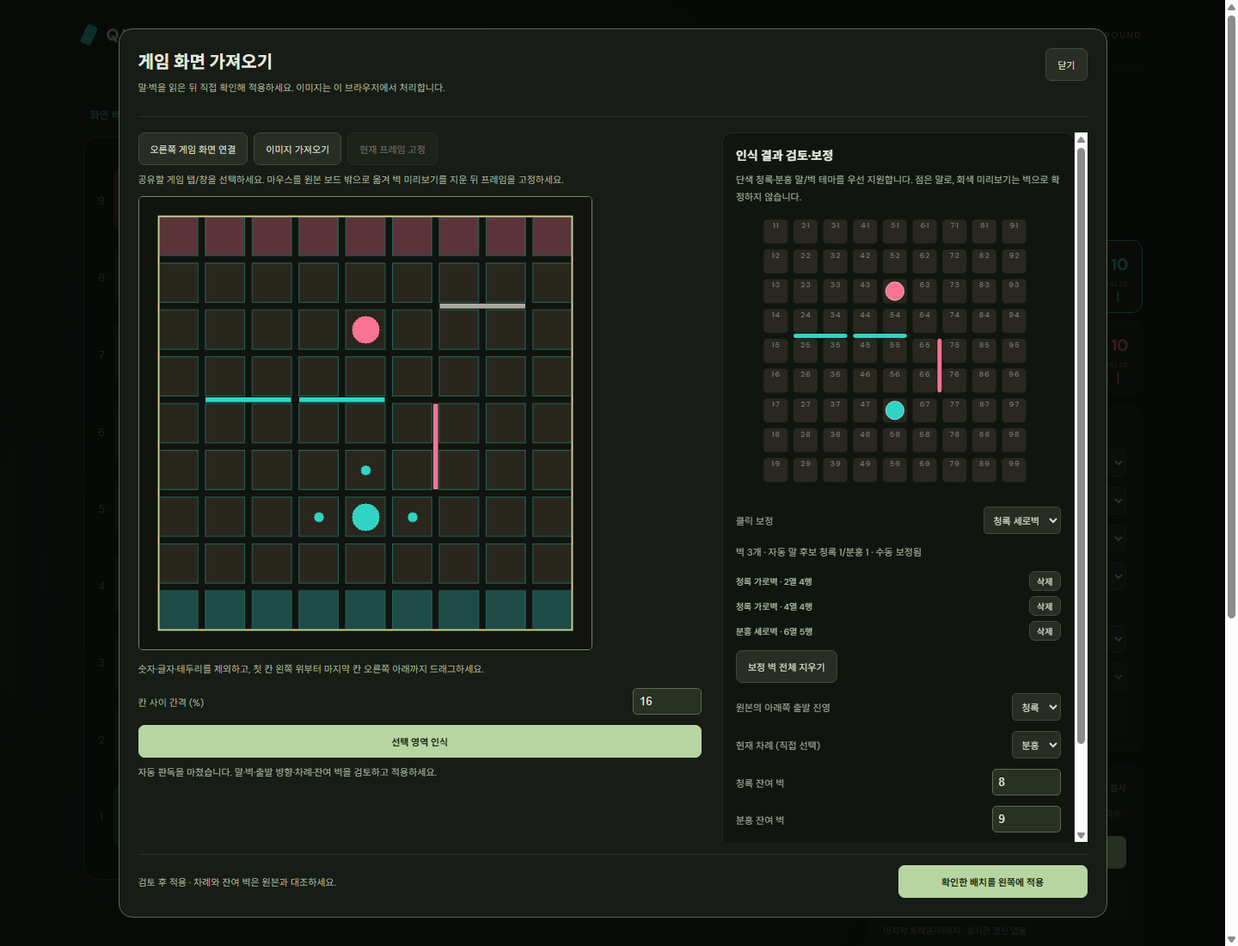
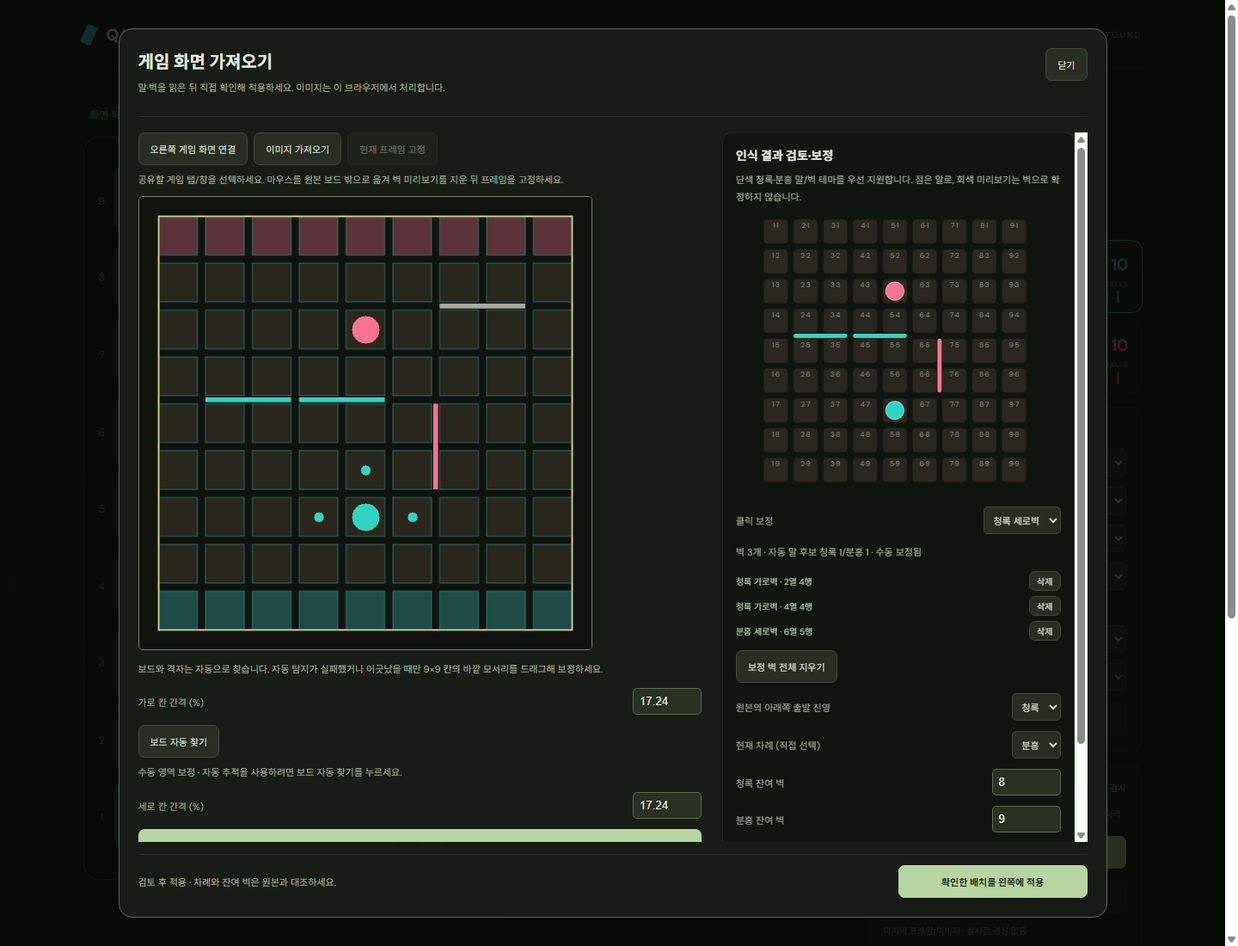
게임 보드와 격자 자동 인식 및 위치·크기 추적 추가
화면 연결과 이미지 가져오기에서 9×9 칸 배열을 찾아 보드 영역을 자동 지정한다.
가로·세로 칸 간격을 따로 계산하고 말과 벽을 즉시 판독한다.
보드 이동·확대·영상 해상도 변경 시 격자를 다시 찾고 합법 수를 동기화한다.
여러 보드는 후보 선택을 제공하고 자동 탐지 실패 시 수동 드래그를 유지한다.
가로·세로 벽 검사를 픽셀 줄 단위로 보강해 축소와 위치 오차에 대응한다.
보드 전체 이동을 말의 착수로 오인하지 않도록 반영 직전에 격자를 확인한다.

검증: 전체 Node 테스트 118개, 합성 영상 브라우저 시나리오 21개, 웹 빌드 통과.
실제 게임 화면 검증과 차례·잔여 벽 독립 판독은 다음 우선순위로 문서화했다.

Changed region(s): [[0.0938, 0.7418, 0.5938, 0.8964], [0.125, 0.68, 0.4688, 0.7109]]

diff --git a/src/screen-capture.js b/src/screen-capture.js
@@ -1,6 +1,7 @@
 import {recognizeBoard,gridGeometry} from './screen-recognition.js';
 import {snapshotFromDraft,snapshotIssues,checkedSnapshot} from './observed-state.js';
 import {inferScreenMoves,StableScreenBoard,boardKey} from './screen-sync.js';
+import {detectBoards,trackedBoard} from './board-detection.js';
 const colors=['#31d4c2','#fa7393'];
 export function mountScreenCapture({onApply,onDirty,getState,onSync,onWatchChange,onUncertain,onRecovered}){
  const panel=document.createElement('section');panel.className='panel';panel.id='screen-panel';panel.hidden=true;
@@ -12,44 +13,80 @@ export function mountScreenCapture({onApply,onDirty,getState,onSync,onWatchChang
  <div class="screen-workspace"><section class="screen-source"><div class="screen-actions"><button id="screen-connect">오른쪽 게임 화면 연결</button><button id="screen-image">이미지 가져오기</button><button id="screen-freeze" disabled>현재 프레임 고정</button><input id="screen-image-file" type="file" accept="image/png,image/jpeg,image/webp" hidden></div><p class="screen-help">공유할 게임 탭/창을 선택하세요. 마우스를 원본 보드 밖으로 옮겨 벽 미리보기를 지운 뒤 프레임을 고정하세요.</p><video id="screen-video" muted autoplay playsinline hidden></video><div id="screen-empty" class="screen-empty">화면을 연결하거나 PNG·JPG·WebP를 가져오세요.</div><canvas id="screen-source-canvas" hidden aria-label="원본 이미지: 9×9 칸의 바깥 모서리를 드래그해 보드 영역 선택"></canvas><p class="screen-help">숫자·글자·테두리를 제외하고, 첫 칸 왼쪽 위부터 마지막 칸 오른쪽 아래까지 드래그하세요.</p><label>칸 사이 간격 (%)<input id="screen-gap" type="number" min="6" max="30" step="1" value="16"></label><button id="screen-recognize" class="primary" disabled>선택 영역 인식</button><p id="screen-message" role="status" aria-live="polite" class="screen-help">먼저 화면이나 이미지를 준비하세요.</p></section>
  <section class="screen-review"><h3>인식 결과 검토·보정</h3><p class="screen-help">단색 청록·분홍 말/벽 테마를 우선 지원합니다. 점은 말로, 회색 미리보기는 벽으로 확정하지 않습니다.</p><div id="screen-review-board" aria-label="인식 배치 보정 보드"></div><label>클릭 보정<select id="screen-brush"><option value="p0">청록 말</option><option value="p1">분홍 말</option><option value="h0">청록 가로벽</option><option value="v0">청록 세로벽</option><option value="h1">분홍 가로벽</option><option value="v1">분홍 세로벽</option><option value="erase">벽 지우기</option></select></label><p id="screen-detected" class="screen-help"></p><div id="screen-wall-list"></div><button id="screen-clear-walls">보정 벽 전체 지우기</button><label>원본의 아래쪽 출발 진영<select id="screen-bottom"><option value="0">청록</option><option value="1">분홍</option></select></label><label>현재 차례 (직접 선택)<select id="screen-turn"><option value="0">청록</option><option value="1">분홍</option></select></label><label>청록 잔여 벽<input id="screen-left-0" type="number" min="0" max="10" value="10"></label><label>분홍 잔여 벽<input id="screen-left-1" type="number" min="0" max="10" value="10"></label><p class="screen-help">차례는 자동으로 읽지 않습니다. 잔여 벽은 설치된 벽 색으로 추정하므로 원본 숫자와 직접 대조하세요.</p><button id="screen-stock-reset">설치 벽으로 잔여 수 재계산</button><ul id="screen-issues" class="screen-issues"></ul><button id="screen-apply" class="primary" disabled>확인한 배치를 왼쪽에 적용</button></section></div>`;
  document.body.append(dialog);
+ const detectionControls=document.createElement('div');detectionControls.innerHTML='<button id="screen-find-board">보드 자동 찾기</button><p id="screen-grid-status" class="screen-help" role="status">화면을 연결하면 보드와 칸 간격을 자동으로 찾습니다.</p><div id="screen-board-candidates"></div><label>세로 칸 간격 (%)<input id="screen-gap-y" type="number" min="6" max="30" step="0.01" value="16"></label>';
+ document.getElementById('screen-recognize').before(detectionControls);document.getElementById('screen-gap').step='0.01';
  const $=id=>document.getElementById(id),canvas=$('screen-source-canvas'),ctx=canvas.getContext('2d'),frame=document.createElement('canvas'),video=$('screen-video');
+ canvas.nextElementSibling.textContent='보드와 격자는 자동으로 찾습니다. 자동 탐지가 실패했거나 어긋났을 때만 9×9 칸의 바깥 모서리를 드래그해 보정하세요.';
+ $('screen-gap').parentElement.firstChild.textContent='가로 칸 간격 (%)';
  const footer=document.createElement('div');footer.className='screen-dialog-foot';const footerNote=document.createElement('span');footerNote.textContent='검토 후 적용 · 차례와 잔여 벽은 원본과 대조하세요.';footer.append(footerNote,$('screen-apply'));dialog.append(footer);
  let stream=null,hasFrame=false,rect=null,drag=null,draft=null,manualStock=[false,false],visible=false,token=0,disposed=false,edited=false;
  let timer=null,calibration=null,uncertain=false,lastVideoTime=-1,lastFrameAt=0;const stable=new StableScreenBoard(3),live=document.createElement('canvas');
+ let automaticGrid=false,lastGridCheck=0;
+ const gaps=()=>({x:Number($('screen-gap').value)/100,y:Number($('screen-gap-y').value)/100});
+ function boardCandidates(pixels){return detectBoards(pixels).filter(candidate=>{const d=recognizeBoard(pixels,candidate.rect,{gap:candidate.gap});return d.p.every(Boolean)&&[0,1].some(bottom=>!snapshotIssues(snapshotFromDraft(d,{bottom,turn:0})).length);});}
+ function selectBoard(candidate,pixels){
+  dirty();rect={...candidate.rect};automaticGrid=true;$('screen-gap').value=(candidate.gap.x*100).toFixed(2);$('screen-gap-y').value=(candidate.gap.y*100).toFixed(2);
+  draft=recognizeBoard(pixels,rect,{gap:gaps()});manualStock=[false,false];edited=false;stock();review();redraw();controls();$('screen-grid-status').textContent=`격자 자동 정렬 완료 · ${candidate.cells}/81칸 확인`;
+  message('보드와 가로·세로 간격을 자동으로 찾았습니다. 말·벽·진영·차례를 확인하고 적용하세요.');
+ }
+ function findBoard(){
+  if(!hasFrame)return;dirty();rect=null;automaticGrid=false;$('screen-board-candidates').replaceChildren();
+  try{const pixels=frame.getContext('2d').getImageData(0,0,frame.width,frame.height),candidates=boardCandidates(pixels);
+   if(candidates.length===1)selectBoard(candidates[0],pixels);
+   else{redraw();controls();const text=candidates.length?'여러 보드를 찾았습니다. 사용할 보드를 선택하세요.':'보드를 확정하지 못했습니다. 전체 9×9 보드가 보이게 하거나 직접 영역을 드래그하세요.';$('screen-grid-status').textContent=text;message(text,true);
+    candidates.forEach((candidate,i)=>{const button=document.createElement('button');button.textContent=`보드 ${i+1} · 위치 ${Math.round(candidate.rect.x)}, ${Math.round(candidate.rect.y)}`;button.onclick=()=>{selectBoard(candidate,pixels);$('screen-board-candidates').replaceChildren();};$('screen-board-candidates').append(button);});}
+  }catch(error){message(error.message,true);}
+ }
  const autoStatus=text=>{$('screen-auto-status').textContent=text;};
  function pause(reason='자동 감시 일시정지'){clearInterval(timer);timer=null;stable.reset();lastVideoTime=-1;onWatchChange?.(false);autoStatus(reason);controls();}
  function invalidate(){calibration=null;if(timer)pause('영역·배치를 변경했습니다. 검토 후 다시 적용하세요.');}
  function reject(text){stable.reset();autoStatus(`갱신 보류 · ${text}`);if(!uncertain){uncertain=true;onUncertain?.();}}
+ function refreshGrid(pixels,w,h){
+  lastGridCheck=Date.now();const found=trackedBoard(boardCandidates(pixels),calibration,w,h);
+  if(!found)throw Error('보드 재탐지 중 · 전체 9×9 칸과 선택 대상을 확인하세요.');
+  const moved=Math.abs(found.rect.x-calibration.rect.x)>2||Math.abs(found.rect.y-calibration.rect.y)>2||Math.abs(found.rect.width-calibration.rect.width)>2||Math.abs(found.rect.height-calibration.rect.height)>2||w!==calibration.width||h!==calibration.height;
+  if(moved){stable.reset();if(!uncertain){uncertain=true;onUncertain?.();}}
+  calibration={...calibration,rect:found.rect,gap:found.gap,width:w,height:h};return moved;
+ }
  function tick(){
   if(!timer||!stream||!calibration||disposed)return;
   try{
    if(video.readyState<2||video.paused||video.currentTime===lastVideoTime){if(Date.now()-lastFrameAt>3000)reject('새 영상 프레임을 받지 못했습니다. 공유 상태를 확인하세요.');return;}
    lastVideoTime=video.currentTime;lastFrameAt=Date.now();
    const scale=Math.min(1,2048/Math.max(video.videoWidth,video.videoHeight)),w=Math.round(video.videoWidth*scale),h=Math.round(video.videoHeight*scale);
-   if(w!==calibration.width||h!==calibration.height){invalidate();autoStatus('공유 화면 크기가 바뀌었습니다. 프레임을 고정하고 영역을 다시 지정하세요.');onUncertain?.();return;}
+   if(!calibration.auto&&(w!==calibration.width||h!==calibration.height)){invalidate();autoStatus('공유 화면 크기가 바뀌었습니다. 프레임을 고정하고 영역을 다시 지정하세요.');onUncertain?.();return;}
    live.width=w;live.height=h;live.getContext('2d').drawImage(video,0,0,w,h);
-   const detected=recognizeBoard(live.getContext('2d').getImageData(0,0,w,h),calibration.rect,{gap:calibration.gap});
+   const pixels=live.getContext('2d').getImageData(0,0,w,h);
+   let gridChecked=false;
+   if(calibration.auto&&(Date.now()-lastGridCheck>=1000||w!==calibration.width||h!==calibration.height)){refreshGrid(pixels,w,h);gridChecked=true;}
+   const detected=recognizeBoard(pixels,calibration.rect,{gap:calibration.gap});
    const before=getState?.();if(!before){pause('배치를 다시 적용하세요.');return;}
    const target=checkedSnapshot(snapshotFromDraft(detected,{bottom:calibration.bottom,turn:before.turn}));
    if(!stable.observe(target)){if(boardKey(before)!==boardKey(target)&&!uncertain){uncertain=true;onUncertain?.();}autoStatus('배치 변화 확인 중 · 동일한 화면 3회 대기');return;}
+   // A whole-board translation by one cell can look like two legal pawn moves.
+   // Confirm geometry on this very frame before committing any changed board.
+   if(calibration.auto&&!gridChecked&&boardKey(before)!==boardKey(target)){
+    const moved=refreshGrid(pixels,w,h),verified=checkedSnapshot(snapshotFromDraft(recognizeBoard(pixels,calibration.rect,{gap:calibration.gap}),{bottom:calibration.bottom,turn:before.turn}));
+    if(moved||boardKey(verified)!==boardKey(target)){stable.reset();autoStatus('격자 재정렬 · 배치 안정화 확인 중');return;}
+   }
    const actions=inferScreenMoves(before,target);
    if(actions.length){if(onSync?.(actions,before)===false)throw Error('왼쪽 배치가 변경됐습니다. 다시 확인하세요.');uncertain=false;autoStatus(`${actions.length}수 자동 반영 · ${new Date().toLocaleTimeString()}`);}
    else {if(uncertain){uncertain=false;onRecovered?.();}autoStatus('자동 감시 중 · 원본과 일치');}
   }catch(error){reject(error.message);}
  }
- function start(){if(!stream||!calibration)return;stable.reset();uncertain=true;lastVideoTime=-1;lastFrameAt=Date.now();timer=setInterval(tick,250);onWatchChange?.(true);autoStatus('자동 감시 시작 · 동일한 배치 3회 확인 후 반영');controls();}
+ function start(){if(!stream||!calibration)return;stable.reset();uncertain=true;lastVideoTime=-1;lastGridCheck=0;lastFrameAt=Date.now();timer=setInterval(tick,250);onWatchChange?.(true);autoStatus('자동 감시 시작 · 동일한 배치 3회 확인 후 반영');controls();}
  const message=(text,error=false)=>{$('screen-message').textContent=text;$('screen-message').classList.toggle('screen-error',error);};
  const dirty=()=>{invalidate();draft=null;$('screen-apply').disabled=true;$('screen-review-board').innerHTML='';$('screen-wall-list').replaceChildren();$('screen-detected').textContent='';$('screen-issues').replaceChildren();onDirty();};
  function controls(){const active=!!stream;$('screen-auto-start').disabled=!active||!calibration||!!timer;$('screen-auto-pause').disabled=!timer;$('screen-disconnect').disabled=!active;$('screen-freeze').disabled=!active;$('screen-connect').disabled=!navigator.mediaDevices?.getDisplayMedia;$('screen-recognize').disabled=!hasFrame||!rect;$('screen-connection').textContent=active?timer?'공유 중 · 자동 감시 활성':'공유 중 · 자동 감시는 일시정지':hasFrame?'마지막 프레임/이미지 · 실시간 갱신 없음':'연결된 화면 없음';}
  function disconnect(notify=true){pause('화면 공유 중지 · 자동 감시 종료');calibration=null;token++;const old=stream;stream=null;video.srcObject=null;video.hidden=true;old?.getTracks().forEach(t=>t.stop());controls();if(notify)onDirty();}
  function redraw(){
   if(!hasFrame)return;ctx.clearRect(0,0,canvas.width,canvas.height);ctx.drawImage(frame,0,0);
-  if(rect){ctx.save();ctx.strokeStyle='#f4d18a';ctx.lineWidth=Math.max(2,canvas.width/600);ctx.strokeRect(rect.x,rect.y,rect.width,rect.height);try{const g=gridGeometry(rect,Number($('screen-gap').value)/100);ctx.strokeStyle='#31d4c277';ctx.lineWidth=1;for(let y=0;y<9;y++)for(let x=0;x<9;x++){const c=g.cell(x,y);ctx.strokeRect(c.x,c.y,c.width,c.height);}}catch{}ctx.restore();}
+  if(rect){ctx.save();ctx.strokeStyle='#f4d18a';ctx.lineWidth=Math.max(2,canvas.width/600);ctx.strokeRect(rect.x,rect.y,rect.width,rect.height);try{const g=gridGeometry(rect,gaps());ctx.strokeStyle='#31d4c277';ctx.lineWidth=1;for(let y=0;y<9;y++)for(let x=0;x<9;x++){const c=g.cell(x,y);ctx.strokeRect(c.x,c.y,c.width,c.height);}}catch{}ctx.restore();}
  }
  function setFrame(source,width,height,keepRect=false){
   if(width<1||height<1)throw Error('화면 크기를 읽지 못했습니다.');const scale=Math.min(1,2048/Math.max(width,height)),w=Math.round(width*scale),h=Math.round(height*scale);
   if(!keepRect||frame.width!==w||frame.height!==h)rect=null;
-  frame.width=w;frame.height=h;frame.getContext('2d').drawImage(source,0,0,w,h);canvas.width=w;canvas.height=h;hasFrame=true;canvas.hidden=false;$('screen-empty').hidden=true;dirty();redraw();controls();message('프레임을 고정했습니다. 보드 영역을 지정하고 격자가 칸과 맞는지 확인하세요.');
+  frame.width=w;frame.height=h;frame.getContext('2d').drawImage(source,0,0,w,h);canvas.width=w;canvas.height=h;hasFrame=true;canvas.hidden=false;$('screen-empty').hidden=true;dirty();redraw();controls();findBoard();
  }
  function freeze(){if(!stream||video.readyState<2)throw Error('연결된 화면을 아직 읽을 수 없습니다.');setFrame(video,video.videoWidth,video.videoHeight,true);}
  async function connect(){
@@ -65,11 +102,11 @@ export function mountScreenCapture({onApply,onDirty,getState,onSync,onWatchChang
  }
  async function imageFile(file){
   if(!file)return;if(!['image/png','image/jpeg','image/webp'].includes(file.type)||file.size>32*1024*1024){message('32MB 이하 PNG·JPG·WebP 파일을 선택하세요.',true);return;}
-  disconnect(false);const mine=token;dirty();message('이미지를 읽고 있습니다…');let bitmap;
+  disconnect(false);const mine=token;dirty();hasFrame=false;rect=null;canvas.hidden=true;$('screen-empty').hidden=false;$('screen-board-candidates').replaceChildren();controls();message('이미지를 읽고 있습니다…');let bitmap;
   try{bitmap=await createImageBitmap(file);if(!disposed&&token===mine)setFrame(bitmap,bitmap.width,bitmap.height);}catch(error){if(token===mine)message(`이미지를 읽지 못했습니다: ${error.message}`,true);}finally{bitmap?.close();}
  }
  const point=e=>{const box=canvas.getBoundingClientRect();return {x:Math.max(0,Math.min(canvas.width,(e.clientX-box.left)*canvas.width/box.width)),y:Math.max(0,Math.min(canvas.height,(e.clientY-box.top)*canvas.height/box.height))};};
- canvas.onpointerdown=e=>{if(!hasFrame)return;canvas.setPointerCapture(e.pointerId);drag=point(e);rect=null;dirty();};
+ canvas.onpointerdown=e=>{if(!hasFrame)return;automaticGrid=false;$('screen-board-candidates').replaceChildren();$('screen-grid-status').textContent='수동 영역 보정 · 자동 추적을 사용하려면 보드 자동 찾기를 누르세요.';canvas.setPointerCapture(e.pointerId);drag=point(e);rect=null;dirty();};
  canvas.onpointermove=e=>{if(!drag)return;const p=point(e);rect={x:Math.min(drag.x,p.x),y:Math.min(drag.y,p.y),width:Math.abs(p.x-drag.x),height:Math.abs(p.y-drag.y)};redraw();};
  canvas.onpointerup=e=>{if(!drag)return;const p=point(e);rect={x:Math.min(drag.x,p.x),y:Math.min(drag.y,p.y),width:Math.abs(p.x-drag.x),height:Math.abs(p.y-drag.y)};drag=null;redraw();controls();message('격자가 칸과 맞는지 확인한 뒤 영역을 인식하세요.');};
  canvas.onpointercancel=()=>{drag=null;rect=null;redraw();controls();};
@@ -92,13 +129,14 @@ export function mountScreenCapture({onApply,onDirty,getState,onSync,onWatchChang
   }else{const w={type:'wall',o:brush[0],owner:Number(brush[1]),x:Math.max(0,Math.min(7,Math.round((x-48)/42))),y:Math.max(0,Math.min(7,Math.round((y-48)/42)))},old=draft.walls.findIndex(a=>a.x===w.x&&a.y===w.y&&a.o===w.o);if(old>=0)draft.walls[old]=w;else draft.walls.push(w);}
   edited=true;stock();onDirty();review();
  };
- $('screen-recognize').onclick=()=>{try{if(!rect||rect.width<180||rect.height<180)throw Error('보드 영역을 180×180 픽셀 이상으로 선택하세요.');draft=recognizeBoard(frame.getContext('2d').getImageData(0,0,frame.width,frame.height),rect,{gap:Number($('screen-gap').value)/100});manualStock=[false,false];edited=false;stock();review();onDirty();message('자동 판독을 마쳤습니다. 말·벽·출발 방향·차례·잔여 벽을 검토하고 적용하세요.');}catch(error){dirty();message(error.message,true);}};
- $('screen-gap').oninput=()=>{dirty();redraw();controls();};
+ $('screen-recognize').onclick=()=>{try{if(!rect||rect.width<180||rect.height<180)throw Error('보드 영역을 180×180 픽셀 이상으로 선택하세요.');draft=recognizeBoard(frame.getContext('2d').getImageData(0,0,frame.width,frame.height),rect,{gap:gaps()});manualStock=[false,false];edited=false;stock();review();onDirty();message('자동 판독을 마쳤습니다. 말·벽·출발 방향·차례·잔여 벽을 검토하고 적용하세요.');}catch(error){dirty();message(error.message,true);}};
+ $('screen-find-board').onclick=findBoard;
+ for(const id of ['screen-gap','screen-gap-y'])$(id).oninput=()=>{automaticGrid=false;dirty();redraw();controls();};
  for(const id of ['screen-bottom','screen-turn'])$(id).onchange=()=>{onDirty();review();};
  for(const t of [0,1])$(`screen-left-${t}`).oninput=()=>{manualStock[t]=true;onDirty();review();};
  $('screen-stock-reset').onclick=()=>{manualStock=[false,false];stock();onDirty();review();};
  $('screen-clear-walls').onclick=()=>{if(draft){draft.walls=[];edited=true;stock();onDirty();review();}};
- $('screen-apply').onclick=()=>{try{const snapshot=checkedSnapshot(readSnapshot());pause();onApply(snapshot,Number($('screen-bottom').value));calibration={rect:{...rect},gap:Number($('screen-gap').value)/100,bottom:Number($('screen-bottom').value),width:frame.width,height:frame.height};controls();dialog.close();message('확인한 배치를 적용했습니다. 공유 중이면 자동 감시 시작을 눌러 연동하세요.');}catch(error){message(error.message,true);review();}};
+ $('screen-apply').onclick=()=>{try{const snapshot=checkedSnapshot(readSnapshot());pause();onApply(snapshot,Number($('screen-bottom').value));calibration={rect:{...rect},gap:gaps(),auto:automaticGrid,bottom:Number($('screen-bottom').value),width:frame.width,height:frame.height};controls();dialog.close();message('확인한 배치를 적용했습니다. 공유 중이면 자동 감시 시작을 눌러 연동하세요.');}catch(error){message(error.message,true);review();}};
  $('screen-auto-start').onclick=()=>{if(!timer)start();};$('screen-auto-pause').onclick=()=>pause();$('screen-auto-hint').onchange=()=>{stable.reset();uncertain=true;onWatchChange?.(!!timer);};
  // Editing an approved draft invalidates its calibration before it can be reused.
  dialog.addEventListener('input',e=>{if(e.target.id!=='screen-image-file'){invalidate();controls();}});

diff --git a/src/board-detection.js b/src/board-detection.js
@@ -1,0 +1,49 @@
+// Flat-color tile components vote for a repeated 9 x 9 lattice. No screen
+// coordinates, page selectors or initial pawn positions are assumed.
+export function detectBoards(image){
+ const {width:w,height:h,data}=image,seen=new Uint8Array(w*h),queue=new Int32Array(w*h),tiles=[];
+ const key=i=>{const p=i*4,r=data[p],g=data[p+1],b=data[p+2];return data[p+3]<128||Math.max(r,g,b)<28||Math.max(r,g,b)>145?-1:((r/12|0)*256+(g/12|0)*16+(b/12|0));};
+ for(let i=0;i<w*h;i++){
+  if(seen[i])continue;seen[i]=1;const color=key(i);if(color<0)continue;
+  let head=0,tail=1,minX=i%w,maxX=minX,minY=i/w|0,maxY=minY;queue[0]=i;
+  while(head<tail){const n=queue[head++],x=n%w,y=n/w|0;minX=Math.min(minX,x);maxX=Math.max(maxX,x);minY=Math.min(minY,y);maxY=Math.max(maxY,y);
+   for(const j of [x? n-1:-1,x+1<w?n+1:-1,y?n-w:-1,y+1<h?n+w:-1])if(j>=0&&!seen[j]&&key(j)===color){seen[j]=1;queue[tail++]=j;}
+  }
+  const tw=maxX-minX+1,th=maxY-minY+1;
+  if(tw>=12&&th>=12&&tw<Math.min(w,h)/7&&th<Math.min(w,h)/7&&tw/th>.65&&tw/th<1.5&&tail/(tw*th)>.52)tiles.push({x:(minX+maxX+1)/2,y:(minY+maxY+1)/2,w:tw,h:th});
+ }
+ const groups=[];
+ for(const tile of tiles){let group=groups.find(g=>Math.abs(g[0].w-tile.w)<Math.max(3,tile.w*.1)&&Math.abs(g[0].h-tile.h)<Math.max(3,tile.h*.1));if(!group)groups.push(group=[]);group.push(tile);}
+ const results=[];
+ for(const group of groups){
+  if(group.length<60)continue;
+  const median=values=>values.sort((a,b)=>a-b)[values.length>>1],cw=median(group.map(t=>t.w)),ch=median(group.map(t=>t.h));
+  function fits(axis,size){
+   const clusters=[];for(const n of group.map(t=>t[axis]).sort((a,b)=>a-b)){const last=clusters.at(-1);if(last&&Math.abs(last.mean-n)<size*.07){last.sum+=n;last.count++;last.mean=last.sum/last.count;}else clusters.push({mean:n,sum:n,count:1});}
+   const coords=clusters.filter(c=>c.count>=4).map(c=>c.mean),out=[];
+   for(let a=0;a<coords.length;a++)for(let b=a+1;b<coords.length;b++)for(let span=1;span<=8;span++){
+    const step=(coords[b]-coords[a])/span,gap=1-size/step;if(gap<.06||gap>.3)continue;
+    const hits=Array.from({length:9},(_,i)=>coords.some(v=>Math.abs(v-coords[a]-i*step)<Math.max(2,step*.055))).filter(Boolean).length;
+    if(hits===9&&!out.some(f=>Math.abs(f.start-coords[a])<2&&Math.abs(f.step-step)<1))out.push({start:coords[a],step,gap});
+   }return out;
+  }
+  for(const x of fits('x',cw))for(const y of fits('y',ch)){
+   const cells=new Set();let error=0;
+   for(const t of group){const col=Math.round((t.x-x.start)/x.step),row=Math.round((t.y-y.start)/y.step),dx=Math.abs(t.x-x.start-col*x.step),dy=Math.abs(t.y-y.start-row*y.step);if(col>=0&&col<9&&row>=0&&row<9&&dx<x.step*.06&&dy<y.step*.06){cells.add(row*9+col);error+=dx/x.step+dy/y.step;}}
+   if(cells.size<65)continue;
+   const rect={x:x.start-cw/2,y:y.start-ch/2,width:8*x.step+cw,height:8*y.step+ch};
+   if(rect.x<0||rect.y<0||rect.x+rect.width>w||rect.y+rect.height>h||Math.min(rect.width,rect.height)<180)continue;
+   const score=cells.size-error;
+   const old=results.find(r=>Math.abs(r.rect.x-rect.x)<cw&&Math.abs(r.rect.y-rect.y)<ch&&Math.abs(r.rect.width-rect.width)<cw);
+   const candidate={rect,gap:{x:x.gap,y:y.gap},cells:cells.size,score};
+   if(old){if(score>old.score)Object.assign(old,candidate);}else results.push(candidate);
+  }
+ }
+ return results.sort((a,b)=>b.score-a.score);
+}
+export function trackedBoard(candidates,previous,width,height){
+ if(candidates.length===1)return candidates[0];
+ const sx=width/previous.width,sy=height/previous.height,p=previous.rect;
+ const ranked=candidates.map(c=>({candidate:c,distance:Math.abs(c.rect.x-p.x*sx)/(p.width*sx)+Math.abs(c.rect.y-p.y*sy)/(p.height*sy)+Math.abs(Math.log(c.rect.width/(p.width*sx)))+Math.abs(Math.log(c.rect.height/(p.height*sy)))})).sort((a,b)=>a.distance-b.distance);
+ return ranked[0]?.distance<.5&&ranked[1]?.distance-ranked[0].distance>.25?ranked[0].candidate:null;
+}

diff --git a/src/board-detection.test.js b/src/board-detection.test.js
@@ -1,0 +1,39 @@
+import test from 'node:test';
+import assert from 'node:assert/strict';
+import {detectBoards,trackedBoard} from './board-detection.js';
+import {recognizeBoard} from './screen-recognition.js';
+import {screenFixture} from '../scripts/test-fixtures/screen-board.mjs';
+const keys=walls=>walls.map(w=>`${w.o}:${w.x}:${w.y}:${w.owner}`).sort();
+// Nearest-neighbor placement into a larger desktop, with independent axes.
+function desktop(f,{x=137,y=83,sx=.65,sy=.72,second=false}={}){
+ const width=1200,height=950,data=new Uint8ClampedArray(width*height*4);for(let i=0;i<data.length;i+=4)data.set([16,18,14,255],i);
+ function paste(dx,dy){for(let yy=0;yy<Math.round(f.height*sy);yy++)for(let xx=0;xx<Math.round(f.width*sx);xx++){const from=(Math.min(f.height-1,Math.floor(yy/sy))*f.width+Math.min(f.width-1,Math.floor(xx/sx)))*4;data.set(f.data.subarray(from,from+4),((dy+yy)*width+dx+xx)*4);}}paste(x,y);if(second)paste(700,120);
+ return {width,height,data};
+}
+test('automatic lattice finds board in full desktop at different offsets, scales and independent axis gaps',()=>{
+ for(const opts of [{},{x:60,y:200,sx:1,sy:.85},{x:300,y:100,sx:.45,sy:.55}]){
+  const f=screenFixture(),image=desktop(f,opts),found=detectBoards(image);assert.equal(found.length,1);
+  const r=recognizeBoard(image,found[0].rect,{gap:found[0].gap});assert.deepEqual(r.p,f.expected.p);assert.deepEqual(keys(r.walls),keys(f.expected.walls));
+ }
+});
+test('five-wall regression reads both horizontal colors and all verticals with automatic geometry',()=>{
+ const installed=[{x:1,y:1,o:'v',owner:1},{x:3,y:1,o:'h',owner:1},{x:6,y:3,o:'v',owner:0},{x:5,y:5,o:'v',owner:1},{x:2,y:5,o:'h',owner:0}].map(w=>({type:'wall',...w}));
+ const f=screenFixture({installed,positions:[{x:4,y:4},{x:4,y:3}]}),image=desktop(f),[found]=detectBoards(image),r=recognizeBoard(image,found.rect,{gap:found.gap});assert.deepEqual(keys(r.walls),keys(installed));assert.deepEqual([0,1].map(t=>10-r.walls.filter(w=>w.owner===t).length),[8,7]);
+});
+test('horizontal and vertical wall recognition is symmetric under bitmap rotation',()=>{
+ const f=screenFixture(),data=new Uint8ClampedArray(f.data.length);
+ for(let y=0;y<f.height;y++)for(let x=0;x<f.width;x++){const from=(y*f.width+x)*4,to=(x*f.height+f.height-1-y)*4;data.set(f.data.subarray(from,from+4),to);}
+ const image={width:f.height,height:f.width,data},[found]=detectBoards(image),r=recognizeBoard(image,found.rect,{gap:found.gap});
+ assert.deepEqual(keys(r.walls),keys(f.expected.walls.map(w=>({...w,x:7-w.y,y:w.x,o:w.o==='h'?'v':'h'}))));
+});
+test('multiple boards remain distinct and empty or partial grids are not accepted',()=>{
+ const f=screenFixture();assert.equal(detectBoards(desktop(f,{second:true})).length,2);
+ const empty=desktop(f);empty.data.fill(0);assert.deepEqual(detectBoards(empty),[]);
+ const partial=screenFixture();for(let y=0;y<partial.height;y++)for(let x=0;x<90;x++)partial.data.fill(0,(y*partial.width+x)*4,(y*partial.width+x)*4+4);assert.deepEqual(detectBoards(partial),[]);
+});
+test('tracking keeps selected board among multiple candidates and rejects ambiguous jumps',()=>{
+ const candidates=detectBoards(desktop(screenFixture(),{second:true})),selected=candidates[0],previous={...selected,width:1200,height:950};
+ assert.equal(trackedBoard(candidates,previous,1200,950),selected);
+ assert.equal(trackedBoard([],previous,1200,950),null);
+ assert.equal(trackedBoard([selected,{...selected,rect:{...selected.rect,x:selected.rect.x+1}}],previous,1200,950),null);
+});

diff --git a/src/screen-recognition.js b/src/screen-recognition.js
@@ -6,9 +6,10 @@ export function pieceColor(r,g,b){
  return -1;
 }
 export function gridGeometry(rect,gap=.16){
- if(!rect||![rect.x,rect.y,rect.width,rect.height,gap].every(Number.isFinite)||rect.width<90||rect.height<90||gap<.06||gap>.3)throw Error('보드 영역과 간격을 확인하세요.');
- const sx=rect.width/(9-gap),sy=rect.height/(9-gap),cw=sx*(1-gap),ch=sy*(1-gap);
- return {sx,sy,cw,ch,cell:(x,y)=>({x:rect.x+x*sx,y:rect.y+y*sy,width:cw,height:ch}),center:(x,y)=>({x:rect.x+x*sx+cw/2,y:rect.y+y*sy+ch/2}),joint:(x,y)=>({x:rect.x+(x+1)*sx-sx*gap/2,y:rect.y+(y+1)*sy-sy*gap/2})};
+ const gx=typeof gap==='number'?gap:gap?.x,gy=typeof gap==='number'?gap:gap?.y;
+ if(!rect||![rect.x,rect.y,rect.width,rect.height,gx,gy].every(Number.isFinite)||rect.width<90||rect.height<90||gx<.06||gx>.3||gy<.06||gy>.3)throw Error('보드 영역과 간격을 확인하세요.');
+ const sx=rect.width/(9-gx),sy=rect.height/(9-gy),cw=sx*(1-gx),ch=sy*(1-gy);
+ return {sx,sy,cw,ch,cell:(x,y)=>({x:rect.x+x*sx,y:rect.y+y*sy,width:cw,height:ch}),center:(x,y)=>({x:rect.x+x*sx+cw/2,y:rect.y+y*sy+ch/2}),joint:(x,y)=>({x:rect.x+(x+1)*sx-sx*gx/2,y:rect.y+(y+1)*sy-sy*gy/2})};
 }
 function sample(image,cx,cy,rx,ry){
  const counts=[0,0],bounds=[[Infinity,Infinity,-Infinity,-Infinity],[Infinity,Infinity,-Infinity,-Infinity]];let total=0;
@@ -28,8 +29,14 @@ export function recognizeBoard(image,rect,{gap=.16}={}){
  }
  for(let y=0;y<8;y++)for(let x=0;x<8;x++)for(const o of ['h','v']){
   const c=grid.joint(x,y),first=grid.center(x,y),second=grid.center(x+1,y+1);
-  const samples=o==='h'?[sample(image,first.x,c.y,grid.sx*.14,grid.sy*.025),sample(image,c.x,c.y,grid.sx*.025,grid.sy*.025),sample(image,second.x,c.y,grid.sx*.14,grid.sy*.025)]:[sample(image,c.x,first.y,grid.sx*.025,grid.sy*.14),sample(image,c.x,c.y,grid.sx*.025,grid.sy*.025),sample(image,c.x,second.y,grid.sx*.025,grid.sy*.14)];
-  for(const owner of [0,1])if(samples.every(s=>s.total>0&&s.counts[owner]/s.total>=.6))walls.push({type:'wall',x,y,o,owner});
+  // Scan a narrow band around the lane center. Requiring all three segments
+  // on the SAME raster line tolerates rounding without joining separate walls.
+  const horizontal=o==='h',center=horizontal?c.y:c.x,range=Math.max(1,Math.min(horizontal?grid.sy-grid.ch:grid.sx-grid.cw,(horizontal?grid.sy:grid.sx)*.11)/2),owners=new Set();
+  for(let line=Math.round(center-range);line<=Math.round(center+range);line++){
+   const samples=horizontal?[sample(image,first.x,line,grid.sx*.14,0),sample(image,c.x,line,grid.sx*.025,0),sample(image,second.x,line,grid.sx*.14,0)]:[sample(image,line,first.y,0,grid.sy*.14),sample(image,line,c.y,0,grid.sy*.025),sample(image,line,second.y,0,grid.sy*.14)];
+   for(const owner of [0,1])if(samples.every(s=>s.total>0&&s.counts[owner]/s.total>=.65))owners.add(owner);
+  }
+  if(owners.size===1)walls.push({type:'wall',x,y,o,owner:[...owners][0]});
  }
  const notes=candidates.flatMap((list,t)=>list.length===1?[]:[`${t===0?'청록':'분홍'} 말 후보 ${list.length}개: 검토 보드에서 위치를 지정하세요.`]);
  return {p:candidates.map(list=>list.length===1?list[0]:null),walls,candidates,notes};

diff --git a/reports/AUTO_GRID.md b/reports/AUTO_GRID.md
@@ -1,0 +1,48 @@
+# 보드·격자 자동 인식과 재탐지
+
+2026-10-29. 화면 연결·프레임 고정·이미지 가져오기 때 보드와 칸 간격을 자동으로 찾도록 변경했습니다. 최초 드래그와 간격 숫자 입력을 생략할 수 있습니다. AI 엔진과 모델·승격 상태는 변경하지 않았습니다.
+
+## 사용법
+
+1. 앱을 새로고침하고 **화면 연동 · 자동 감시**에서 게임 탭/창을 연결합니다. 전체 9×9 보드가 보이게 해 주세요.
+2. 보드 위치·가로 간격·세로 간격을 자동 계산하고 격자·말·벽을 표시합니다. 별도의 ‘선택 영역 인식’을 누르지 않아도 최초 판독 결과가 나옵니다.
+3. **내 진영**, **원본 아래쪽 출발 진영**, **현재 차례**, **말·벽·잔여 수**를 확인하고 **확인한 배치를 왼쪽에 적용**합니다. 초기 차례·벽 숫자를 OCR로 읽는 기능은 아직 아닙니다.
+4. 메인 화면에서 **자동 감시 시작**을 누릅니다. 이후 합법적인 한두 수 변화와 내 차례 추천을 자동 반영합니다.
+5. 보드가 여러 개 보이면 **보드 1/2…** 후보 버튼에서 게임 보드를 선택합니다. 추적 중에는 이전 위치·크기로 선택 대상을 유지하고, 대상을 구분하지 못하면 반영을 보류합니다.
+6. 자동 탐지가 실패하면 전체 보드가 보이는지 확인하고 **보드 자동 찾기**를 누르거나 드래그로 보정합니다. 드래그 또는 간격 수동 입력은 수동 격자로 전환합니다. 자동 재탐지로 돌아가려면 **보드 자동 찾기 → 배치 확인·적용**을 진행하세요.
+
+자동 격자에서는 감시 중 약 1초마다 격자를 다시 찾습니다. 보드 이동·확대·공유 영상 해상도 변경을 따라가고, 격자가 바뀌면 기존 추천을 취소한 뒤 안정된 배치를 확인합니다. 수동 격자에서는 영상 해상도 변경 시 영역을 다시 지정해야 합니다. 브라우저의 백그라운드 제한에 따라 실제 주기는 늦어질 수 있습니다.
+
+## 구현과 가로벽 누락 대응
+
+- 어두운 테마의 평평한 색 영역에서 칸 후보를 찾고, 비슷한 크기의 칸들이 가로·세로 **9개씩 규칙적으로 배열**되는지 검사합니다. 고정된 화면 좌표나 초기 말 위치에 의존하지 않습니다.
+- 축마다 간격과 칸 크기를 따로 추정합니다. 81칸 중 최소 65칸의 정렬과 양쪽 말 후보, 유효한 벽·경로·자원 상태를 확인해야 자동 후보로 제시합니다. 여러 후보가 있으면 임의로 첫 보드를 선택하지 않습니다.
+- 바깥 선택 사각형뿐 아니라 실제 칸 배열로 보정하므로 잘못 드래그한 경계와 가로·세로 간격 오차를 줄입니다.
+- 벽 판독은 기존의 작은 사각 샘플 대신 틈 중심 주변의 좁은 띠를 검사합니다. **같은 픽셀 행/열에서 두 칸 구간과 가운데 연결부가 모두 같은 색**일 때 벽으로 읽습니다. 축소·픽셀 반올림 오차를 허용하면서 인접한 별개 벽을 합치지 않도록 합니다.
+- 가로벽 2개·세로벽 3개 배치에서 벽 5개와 잔여 수 **청록 8·분홍 7**을 검증했습니다. 90도 회전에서도 가로·세로 벽 검출이 대응하는지 확인했습니다.
+
+사용자 화면의 누락 원인이 드래그 오차 하나였다고 확정한 것은 아닙니다. 이번 변경은 자동 격자와 벽 검출 오차 허용을 함께 보강한 것이며, 첨부 화면과 동일한 실제 게임 환경의 성공 여부는 추가 확인이 필요합니다.
+
+## 검증과 한계
+
+- 전체 Node 테스트 **118개**, 웹 빌드 통과.
+- 격자 이동·축소·독립 축 비율 변화, 회전, 여러 보드, 전체 보드가 잘린 경우, 빈 이미지, 벽 5개 회귀 배치를 검사했습니다.
+- 독립 headless Chrome의 **21개 시나리오**에서 자동 초기 판독, 기존 수동 보정, 자동 감시, 영상 안에서 보드 이동·비율 변경, 영상 해상도 변경, 후보 선택 후 추적, 보드 누락 시 적용 차단을 확인했습니다. 보드 전체가 한 칸만큼 움직여도 두 말의 착수로 잘못 기록하지 않는지도 검사했습니다. 처리되지 않은 페이지 오류는 0개입니다.
+- 화면 공유는 자체 합성 MediaStream으로 검증했습니다. 실제 Wallz 공유·여러 브라우저 확대 배율의 장기 정확도는 아직 측정하지 않았습니다. 사용자의 브라우저 프로필·실제 대국에는 접근하지 않았습니다.
+- 축이 정렬된 어두운 청록·분홍 테마를 우선 지원합니다. 보드 전체가 잘렸거나 가려짐, 작은 미리보기, 다른 테마·복잡한 아바타, 원근 사진에서는 자동 탐지가 실패할 수 있습니다. 현재 최소 보드 크기는 처리 프레임에서 180×180픽셀입니다.
+- 실제 벽과 똑같이 보이는 컬러 미리보기를 영상만으로 확실히 구분하지 못할 수 있습니다. 착수 후 커서를 보드 밖으로 옮겨 주세요. 초기 차례 오류·되돌리기·새 게임·세 수 이상 놓친 진행은 재확인·적용이 필요합니다.
+
+[브라우저 검증 기록](screen-import/browser-qa.json), [자동 격자 추적 후 보드](screen-import/automatic-grid.png), [연동과 복구 기본 사용법](SCREEN_SYNC.md).
+
+```powershell
+npm test
+npm run screen:qa
+```
+
+## 남은 추천 우선순위
+
+1. **실제 게임 화면 회귀 검증**: 다양한 화면 크기·확대·벽 배치에서 자동 격자와 가로벽 누락 여부를 측정하고 실패 프레임을 테스트로 추가합니다.
+2. **차례·잔여 벽 독립 판독**: 원본 숫자·차례 표시를 추적 상태와 대조해 미리보기나 초기 설정 오류를 검출합니다.
+3. **되돌리기·새 게임·여러 수 누락 복구**: 최근 정상 배치와 실제 기보로 재동기화합니다.
+4. **인식 진단·테마 지원 확대**: 벽별 검사 위치·실패 사유를 표시하고 다른 말/보드 테마에 대응합니다.
+5. **처리 비용·지연 개선**: 선택 영역 중심 검사와 재탐지 비용을 계측·최적화합니다.

diff --git a/README.md b/README.md
@@ -2,7 +2,7 @@
 
 개인용 쿼리도 대전·분석 앱.
 
-**모드 → 화면 연동 · 자동 감시**에서 게임 화면 연결 → 보드 영역 지정 → 최초 배치·차례 확인 → 적용 → **자동 감시 시작**을 누르세요. 이후 합법적인 말 이동·벽 설치를 추적해 보드·차례·잔여 벽·기보를 갱신하고 내 차례에 추천을 분석합니다. 이미지 파일은 수동 가져오기용입니다. [사용법·제한·검증·남은 우선순위](reports/SCREEN_SYNC.md)를 참고하세요.
+**모드 → 화면 연동 · 자동 감시**에서 게임 화면 연결 → **보드·격자 자동 인식** → 최초 배치·차례 확인 → 적용 → **자동 감시 시작**을 누르세요. 보드 위치와 가로·세로 간격을 자동 계산하고 감시 중 이동·크기 변화도 재탐지합니다. 여러 보드가 있으면 후보를 선택하고, 실패했을 때만 드래그로 보정합니다. 합법 수 추적과 내 차례 추천을 지원하며 이미지 파일은 수동 가져오기용입니다. [자동 격자 사용법·검증·남은 우선순위](reports/AUTO_GRID.md)를 참고하세요.
 
 pressure 후보를 동결하고 과거 벽 배치를 제외한 12개 새 국면에서 깊이 3·4/일부 5, 4만·5만·6만 노드, 0.5초·4코어를 검증했습니다. 고정 조건의 선택 개선은 없었고 사전 연구 기준도 미달해 기본 원본 5.3을 유지합니다. 새로운 일반/미로 실패는 내부/루트 축소로 각각 분리했습니다. [독립 검증·표본 한계·새 회귀 사례·다음 우선순위](reports/PREVIEW_INDEPENDENT.md)를 참고하세요.
 

diff --git a/reports/SCREEN_SYNC.md b/reports/SCREEN_SYNC.md
@@ -1,5 +1,7 @@
 # 게임 화면 자동 연동과 내 차례 추천
 
+**업데이트:** 보드 위치·가로·세로 간격의 자동 탐지와 감시 중 재탐지를 추가했습니다. 최신 사용법과 검증·남은 우선순위는 [자동 격자](AUTO_GRID.md)를 참고하세요. 아래 수동 드래그·크기 변경 안내는 초기 연동 단계 기록이며 수동 격자에서의 복구에도 사용할 수 있습니다.
+
 2026-10-29. 수동 프레임 가져오기 다음 단계로 연속 영상 감시를 추가했습니다. 게임 화면 공유가 유지되면 가져오기 창을 닫아도 왼쪽 메인 보드가 자동 갱신됩니다. 오른쪽 게임의 클릭은 사용자가 직접 합니다. AI 알고리즘·모델·기본 엔진은 변경하지 않았습니다.
 
 ## 사용 순서
